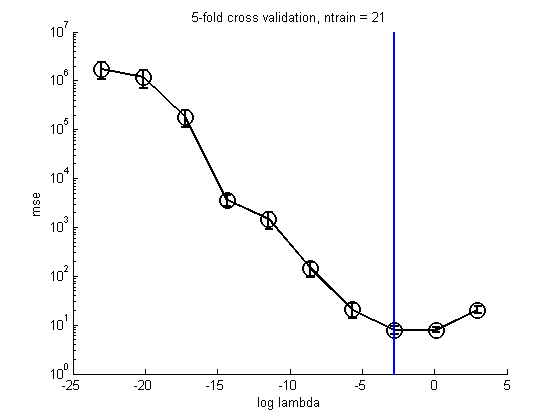
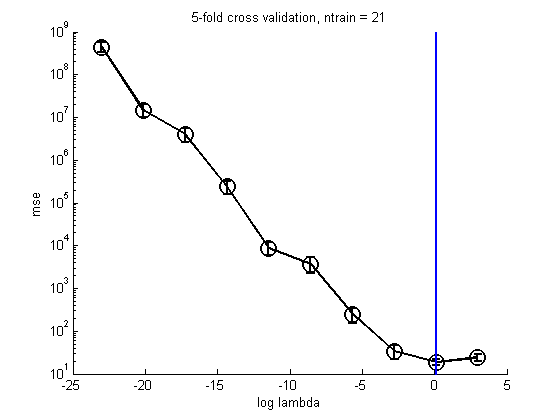
git-svn-id: https://pmtk3.googlecode.com/svn/trunk@2487 b6abd7f4-f95b-11de-aa3c-59de0406b4f5

diff --git a/docs/demoOutput/bookDemos/Decision_theory/linregPolyVsRegDemo.html b/docs/demoOutput/bookDemos/Decision_theory/linregPolyVsRegDemo.html
@@ -6,7 +6,7 @@
    <!--
 This HTML is auto-generated from an M-file.
 To make changes, update the M-file and republish this document.
-      --><title>Ridge regression: visualize effect of changing lambda</title><meta name="generator" content="MATLAB 7.10"><meta name="date" content="2010-08-30"><meta name="m-file" content="linregPolyVsRegDemo"><style type="text/css">
+      --><title>Ridge regression: visualize effect of changing lambda and selecting it with CV and EB</title><meta name="generator" content="MATLAB 7.10"><meta name="date" content="2010-08-31"><meta name="m-file" content="linregPolyVsRegDemo"><style type="text/css">
 
 body {
   background-color: white;
@@ -62,7 +62,7 @@ p.footer {
   color: gray;
 }
 
-  </style></head><body><div class="content"><h1>Ridge regression: visualize effect of changing lambda</h1><!--introduction--><p>and selecting it with CV and EB</p><!--/introduction--><h2>Contents</h2><div><ul><li><a href="#3">Fit model by MLE and plot</a></li><li><a href="#4">compute train/test error for each  lambda using ridge</a></li><li><a href="#5">print fitted function for certain chosen lambdas</a></li><li><a href="#6">Cross validation</a></li><li><a href="#7">Bayes</a></li><li><a href="#8">Now optimize alpha and beta using empirical Bayes</a></li><li><a href="#9">Now infer alpha and beta using VB</a></li></ul></div><pre class="codeinput">ns = [21 50];
+  </style></head><body><div class="content"><h1>Ridge regression: visualize effect of changing lambda and selecting it with CV and EB</h1><!--introduction--><!--/introduction--><h2>Contents</h2><div><ul><li><a href="#3">Fit model by MLE and plot</a></li><li><a href="#4">compute train/test error for each  lambda using ridge</a></li><li><a href="#5">print fitted function for certain chosen lambdas</a></li><li><a href="#6">Cross validation</a></li><li><a href="#7">Bayes</a></li><li><a href="#8">Now optimize alpha and beta using empirical Bayes</a></li><li><a href="#9">Now infer alpha and beta using VB</a></li></ul></div><pre class="codeinput">ns = [21 50];
 <span class="keyword">for</span> n=ns(:)'
 </pre><pre class="codeinput">setSeed(0);
 [xtrain, ytrain, xtest, ytestNoisefree, ytest, sigma2] =<span class="keyword">...</span>
@@ -145,7 +145,7 @@ printPmtkFigure(sprintf(<span class="string">'linregPolyVsRegTestErrN%d'</span>,
   nfolds = 5;
   <span class="comment">% since the data is sorted left to right, we must randomize the order</span>
   [mu(k), se(k)] = cvEstimate(fitFn, predFn, lossFn, Xtrain, ytrain, nfolds, <span class="keyword">...</span>
-    <span class="string">'randomizeOrder'</span>, true);
+    <span class="string">'randomizeOrder'</span>, false);
 <span class="keyword">end</span>
 
 figure; hold <span class="string">on</span>
@@ -173,6 +173,13 @@ dof = 1./(eps+lambdas);
 <span class="keyword">end</span>
 verticalLine(ndx(idx_opt), <span class="string">'color'</span>,<span class="string">'b'</span>, <span class="string">'linewidth'</span>,2);
 printPmtkFigure(sprintf(<span class="string">'linregPolyVsRegCvN%d'</span>, n))
+
+<span class="comment">% do it again using fitCV</span>
+fitFn2 = @(Xtr,ytr,lam) linregFit(Xtr, ytr, <span class="string">'lambda'</span>, lam, <span class="string">'preproc'</span>, pp);
+[model2, bestParam2, mu2, se2] = <span class="keyword">...</span>
+    fitCv(lambdas, fitFn2, predFn, lossFn, Xtrain, ytrain,  nfolds);
+assert(approxeq(mu, mu2))
+assert(approxeq(se, se2))
 </pre><img vspace="5" hspace="5" src="linregPolyVsRegDemo_06.png" alt=""> <img vspace="5" hspace="5" src="linregPolyVsRegDemo_17.png" alt=""> <h2>Bayes<a name="7"></a></h2><p>We  compute log evidence for each value of alpha to see how it compares to test error To simplify things, we use the known noise variance</p><pre class="codeinput">beta = 1/sigma2;
 alphas = beta * lambdas;
 
@@ -224,9 +231,9 @@ verticalLine(log(alphaVB), <span class="string">'linewidth'</span>, 3, <span cla
 </pre><p class="footer"><br>
       Published with MATLAB&reg; 7.10<br></p></div><!--
 ##### SOURCE BEGIN #####
-%% Ridge regression: visualize effect of changing lambda
-% and selecting it with CV and EB
- %%
+%% Ridge regression: visualize effect of changing lambda and selecting it with CV and EB
+%
+%%
 ns = [21 50];
 for n=ns(:)'
 setSeed(0);
@@ -321,7 +328,7 @@ for k=1:NL
   nfolds = 5;
   % since the data is sorted left to right, we must randomize the order
   [mu(k), se(k)] = cvEstimate(fitFn, predFn, lossFn, Xtrain, ytrain, nfolds, ...
-    'randomizeOrder', true);
+    'randomizeOrder', false);
 end
 
 figure; hold on
@@ -350,6 +357,13 @@ end
 verticalLine(ndx(idx_opt), 'color','b', 'linewidth',2);
 printPmtkFigure(sprintf('linregPolyVsRegCvN%d', n))
 
+% do it again using fitCV
+fitFn2 = @(Xtr,ytr,lam) linregFit(Xtr, ytr, 'lambda', lam, 'preproc', pp);
+[model2, bestParam2, mu2, se2] = ...
+    fitCv(lambdas, fitFn2, predFn, lossFn, Xtrain, ytrain,  nfolds);
+assert(approxeq(mu, mu2))
+assert(approxeq(se, se2))
+  
 
 %% Bayes
 % We  compute log evidence for each value of alpha

diff --git a/docs/demoOutput/bookDemos/Neural_networks/mlpClassifDemo.html b/docs/demoOutput/bookDemos/Neural_networks/mlpClassifDemo.html
@@ -1,0 +1,135 @@
+
+<!DOCTYPE html
+  PUBLIC "-//W3C//DTD HTML 4.01 Transitional//EN">
+<html><head>
+      <meta http-equiv="Content-Type" content="text/html; charset=utf-8">
+   <!--
+This HTML is auto-generated from an M-file.
+To make changes, update the M-file and republish this document.
+      --><title>MLP Classification Demo</title><meta name="generator" content="MATLAB 7.10"><meta name="date" content="2010-08-31"><meta name="m-file" content="mlpClassifDemo"><style type="text/css">
+
+body {
+  background-color: white;
+  margin:10px;
+}
+
+h1 {
+  color: #990000; 
+  font-size: x-large;
+}
+
+h2 {
+  color: #990000;
+  font-size: medium;
+}
+
+/* Make the text shrink to fit narrow windows, but not stretch too far in 
+wide windows. */ 
+p,h1,h2,div.content div {
+  max-width: 600px;
+  /* Hack for IE6 */
+  width: auto !important; width: 600px;
+}
+
+pre.codeinput {
+  background: #EEEEEE;
+  padding: 10px;
+}
+@media print {
+  pre.codeinput {word-wrap:break-word; width:100%;}
+} 
+
+span.keyword {color: #0000FF}
+span.comment {color: #228B22}
+span.string {color: #A020F0}
+span.untermstring {color: #B20000}
+span.syscmd {color: #B28C00}
+
+pre.codeoutput {
+  color: #666666;
+  padding: 10px;
+}
+
+pre.error {
+  color: red;
+}
+
+p.footer {
+  text-align: right;
+  font-size: xx-small;
+  font-weight: lighter;
+  font-style: italic;
+  color: gray;
+}
+
+  </style></head><body><div class="content"><h1>MLP Classification Demo</h1><!--introduction--><p>Based on Mark Schmidt's Demo from <a href="http://people.cs.ubc.ca/~schmidtm/Software/minFunc/minFunc.html#9">http://people.cs.ubc.ca/~schmidtm/Software/minFunc/minFunc.html#9</a></p><!--/introduction--><pre class="codeinput">H = [3, 6, 9];
+<span class="keyword">for</span> hi=1:length(H)
+  nhidden = H(hi);
+setSeed(0);
+nVars = 2;
+nInstances = 400;
+options.Display = <span class="string">'none'</span>;
+options.MaxIter = 100;
+[X,y] = makeData(<span class="string">'classificationNonlinear'</span>,nInstances,nVars);
+[N,D] = size(X);
+X1 = [ones(N,1) X];
+lambda = 1e-2;
+
+model = mlpFit(X, y, <span class="string">'nhidden'</span>, nhidden, <span class="string">'lambda'</span>, lambda, <span class="keyword">...</span>
+  <span class="string">'fitOptions'</span>, options, <span class="string">'method'</span>, <span class="string">'schmidt'</span>);
+[yhat, py] = mlpPredict(model, X);
+
+model1 = mlpFit(X, y, <span class="string">'nhidden'</span>, nhidden, <span class="string">'lambda'</span>, lambda, <span class="keyword">...</span>
+  <span class="string">'fitOptions'</span>, options, <span class="string">'method'</span>, <span class="string">'netlab'</span>);
+[yhat1, py1] = mlpPredict(model, X);
+
+assert(approxeq(py, py1))
+
+nerr = sum(yhat ~= y);
+
+str = sprintf(<span class="string">'mlp with %d hidden units, nerr = %d'</span>, model.nHidden, nerr);
+plotDecisionBoundary(X, y, @(X)mlpPredict(model, X));
+title(str);
+printPmtkFigure(sprintf(<span class="string">'mlpClassifH%d'</span>, nhidden));
+<span class="keyword">end</span>
+</pre><img vspace="5" hspace="5" src="mlpClassifDemo_01.png" alt=""> <img vspace="5" hspace="5" src="mlpClassifDemo_02.png" alt=""> <img vspace="5" hspace="5" src="mlpClassifDemo_03.png" alt=""> <p class="footer"><br>
+      Published with MATLAB&reg; 7.10<br></p></div><!--
+##### SOURCE BEGIN #####
+%% MLP Classification Demo
+% Based on Mark Schmidt's Demo from
+% http://people.cs.ubc.ca/~schmidtm/Software/minFunc/minFunc.html#9
+%%
+H = [3, 6, 9];
+for hi=1:length(H)
+  nhidden = H(hi);
+setSeed(0);
+nVars = 2;
+nInstances = 400;
+options.Display = 'none';
+options.MaxIter = 100;
+[X,y] = makeData('classificationNonlinear',nInstances,nVars);
+[N,D] = size(X);
+X1 = [ones(N,1) X];
+lambda = 1e-2;
+
+model = mlpFit(X, y, 'nhidden', nhidden, 'lambda', lambda, ...
+  'fitOptions', options, 'method', 'schmidt');
+[yhat, py] = mlpPredict(model, X);
+
+model1 = mlpFit(X, y, 'nhidden', nhidden, 'lambda', lambda, ...
+  'fitOptions', options, 'method', 'netlab');
+[yhat1, py1] = mlpPredict(model, X);
+
+assert(approxeq(py, py1))
+
+nerr = sum(yhat ~= y);
+
+str = sprintf('mlp with %d hidden units, nerr = %d', model.nHidden, nerr);
+plotDecisionBoundary(X, y, @(X)mlpPredict(model, X));
+title(str);
+printPmtkFigure(sprintf('mlpClassifH%d', nhidden));
+end
+
+
+##### SOURCE END #####
+--></body></html>

diff --git a/docs/demoOutput/bookDemos/Neural_networks/index.html b/docs/demoOutput/bookDemos/Neural_networks/index.html
@@ -26,10 +26,16 @@
 	<th width="10%">Tags</th>
 </tr>
 <tr bgcolor="white" align="left">
+<td>mlpClassifDemo</td>
+	<td> <a href="mlpClassifDemo.html"> MLP Classification Demo </td>
+<td>&nbsp;</td>
+<td>&nbsp;</td>
+</tr>
+<tr bgcolor="white" align="left">
 <td>mlpClassifDemoSchmidt</td>
 	<td> <a href="mlpClassifDemoSchmidt.html"> MLP Classification Demo </td>
 <td>346</td>
-<td>*</td>
+<td>&nbsp;</td>
 </tr>
 <tr bgcolor="white" align="left">
 <td>mlpPriorsDemo</td>

diff --git a/docs/demoOutput/bookDemos/Decision_theory/index.html b/docs/demoOutput/bookDemos/Decision_theory/index.html
@@ -39,7 +39,7 @@
 </tr>
 <tr bgcolor="white" align="left">
 <td>linregPolyVsRegDemo</td>
-	<td> <a href="linregPolyVsRegDemo.html"> Ridge regression: visualize effect of changing lambda </td>
+	<td> <a href="linregPolyVsRegDemo.html"> Ridge regression: visualize effect of changing lambda and selecting it with CV and EB </td>
 <td>30, 31, 232, 599</td>
 <td>&nbsp;</td>
 </tr>

diff --git a/localUtil/dataTools/loadData.m b/localUtil/dataTools/loadData.m
@@ -18,11 +18,7 @@ function varargout = loadData(dataset, destnRoot, quiet)
 %
 % s = loadData('sat', 'C:/mydir')
 %
-%% note
-% I only discovered after writing this file, that Matlab's builtin unzip
-% function can unzip a file directly from an online url, (also supported
-% in Octave). As the current setup is working fine, I haven't changed the
-% code, but this may be worth doing in the future.  - Matt July 30, 2010
+%%
 
 %%
 if nargin < 2, destnRoot = fullfile(pmtk3Root(), 'data'); end

diff --git a/demos/bookDemos/Neural_networks/mlpClassifDemo.m b/demos/bookDemos/Neural_networks/mlpClassifDemo.m
@@ -1,6 +1,6 @@
 %% MLP Classification Demo
 % Based on Mark Schmidt's Demo from
-%http://people.cs.ubc.ca/~schmidtm/Software/minFunc/minFunc.html#9
+% http://people.cs.ubc.ca/~schmidtm/Software/minFunc/minFunc.html#9
 %%
 H = [3, 6, 9];
 for hi=1:length(H)

diff --git a/demos/bookDemos/Decision_theory/linregPolyVsRegDemo.m b/demos/bookDemos/Decision_theory/linregPolyVsRegDemo.m
@@ -1,6 +1,6 @@
-%% Ridge regression: visualize effect of changing lambda
-% and selecting it with CV and EB
- %%
+%% Ridge regression: visualize effect of changing lambda and selecting it with CV and EB
+%
+%%
 ns = [21 50];
 for n=ns(:)'
 setSeed(0);
